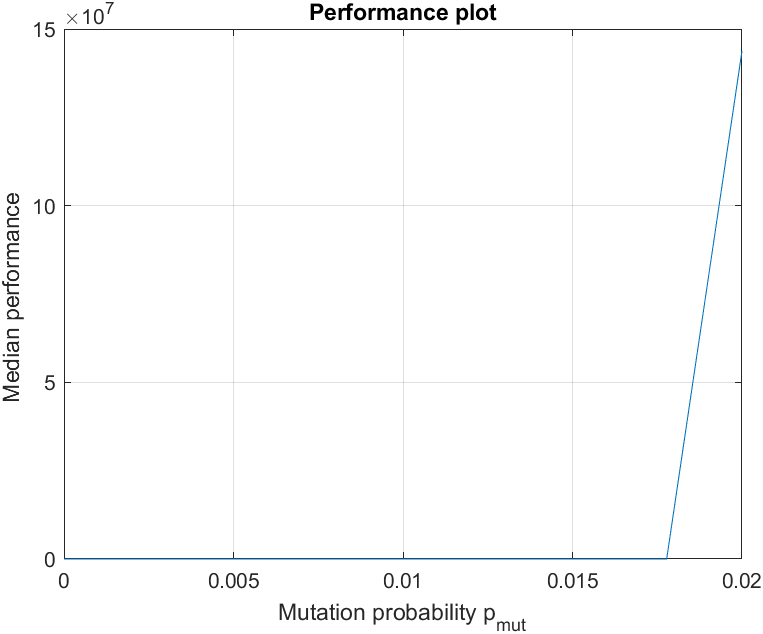
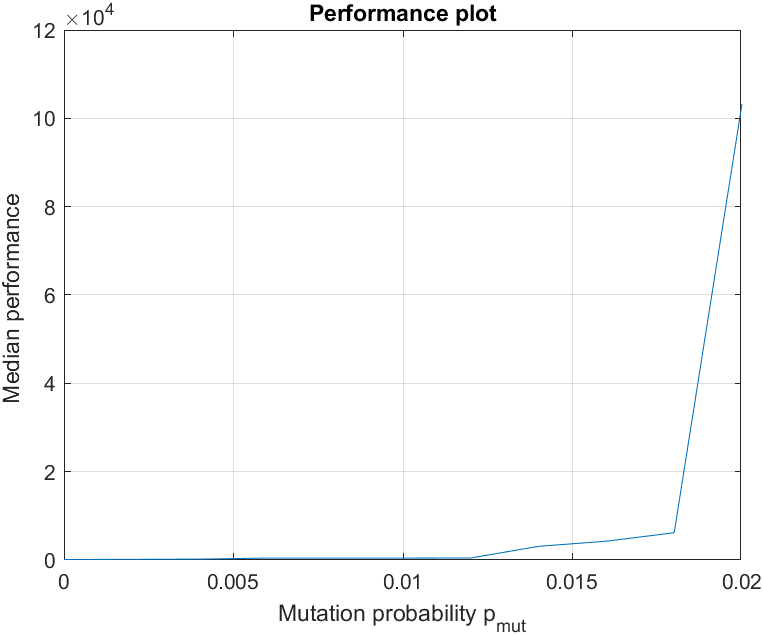
Finish

diff --git a/HomeProblemsSet1/1.3/TournamentSelect.m b/HomeProblemsSet1/1.3/TournamentSelect.m
@@ -1,46 +1,105 @@
+% clc,clear
+% fit = [1 1 1 1];
+% index = TournamentSelect(fit,0.9,2);
+% fit(index);
+function selectedIndividualIndex = TournamentSelect(fitnessList, tournamentProbability, tournamentSize)
+
+tmpIndex = 1 + fix(rand(1,3)*length(fitnessList));
+%tmpIndex = randi(length(fitnessList),1,tournamentSize)
+
+tmpFitnessList = fitnessList(tmpIndex);
+
+
+[minimumFitness,minIndex] = min(tmpFitnessList);
+selectedIndividualIndex = tmpIndex(minIndex);
+for i = 1:tournamentSize-1
+    [maximumFitness,maxIndex] = max(tmpFitnessList);
+    r = rand;
+    if r<tournamentProbability
+        selectedIndividualIndex = tmpIndex(maxIndex);
+        break
+    else
+        tmpIndex(maxIndex) = [];
+        tmpFitnessList(maxIndex) = [];
+    end
+end
+
+end
 % function selectedIndividualIndex = TournamentSelect(fitnessList, tournamentProbability, tournamentSize)
-% 
+%
 % tmpFitnessList = fitnessList(randi(length(fitnessList),1,tournamentSize));
-% tmpFitnessList = sort(tmpFitnessList,'descend');
+% tmpFitnessList = sort(tmpFitnessList,'descend')
 % selectedIndividual = tmpFitnessList(end);
-% 
+%
 % for i = 1:length(tmpFitnessList)-1
 %     r = rand;
 %     if r<tournamentProbability
-%         selectedIndividual = tmpFitnessList(i);
+%         selectedIndividual = tmpFitnessList(i)
 %         break
 %     end
 % end
-% 
+%
 % selectedIndividualIndex = find(fitnessList == selectedIndividual);
 % if length(selectedIndividualIndex) > 1
 %    selectedIndividualIndex = selectedIndividualIndex(randi([1,length(selectedIndividualIndex)]));
 % end
-% 
+%
 % end
 
-function selectedIndividualIndex = TournamentSelect(fitnessList, tournamentProbability, tournamentSize)
-
-fitness = fitnessList;
-pTournament = tournamentProbability;
-populationSize = length(fitness);
-iTmp1 = 1 + fix(rand*populationSize);
-iTmp2 = 1 + fix(rand*populationSize);
-
-r = rand;
-
-if (r < pTournament)
-    if (fitness(iTmp1) > fitness(iTmp2))
-        selectedIndividualIndex = iTmp1;
-    else
-        selectedIndividualIndex = iTmp2;
-    end
-else
-    if (fitness(iTmp1) > fitness(iTmp2))
-        selectedIndividualIndex = iTmp2;
-    else
-        selectedIndividualIndex = iTmp1;
-    end
-end
-
-end
+% function selectedIndividualIndex = TournamentSelect(fitnessList, tournamentProbability, tournamentSize)
+%
+% fitness = fitnessList;
+% pTournament = tournamentProbability;
+% populationSize = length(fitness);
+% iTmp1 = 1 + fix(rand*populationSize);
+% iTmp2 = 1 + fix(rand*populationSize);
+%
+% r = rand;
+%
+% if (r < pTournament)
+%     if (fitness(iTmp1) > fitness(iTmp2))
+%         selectedIndividualIndex = iTmp1;
+%     else
+%         selectedIndividualIndex = iTmp2;
+%     end
+% else
+%     if (fitness(iTmp1) > fitness(iTmp2))
+%         selectedIndividualIndex = iTmp2;
+%     else
+%         selectedIndividualIndex = iTmp1;
+%     end
+% end
+%
+% end
+% fit = [1 1 1 1]
+% index = TournamentSelect(fit,0.9,2)
+% fit(index)
+% function selectedIndividualIndex = TournamentSelect(fitnessList, tournamentProbability, tournamentSize);
+% 
+%     populationSize = length(fitnessList);
+%     tournamentFitnessList = zeros(tournamentSize,1);
+% 
+%     for j=1:tournamentSize
+%         randIndex(j) = 1 + fix(rand*populationSize);
+%         tournamentFitnessList(j) = fitnessList(randIndex(j));
+%     end
+%     for i=1:tournamentSize
+% 
+%         r=rand;
+%         [~, index] = max(tournamentFitnessList)
+% 
+%         if r < tournamentProbability
+%             selectedIndividualIndex = randIndex(index(1));
+%             break;
+% 
+%         elseif length(tournamentFitnessList)==1
+%             selectedIndividualIndex = randIndex(index(1));
+%             break;
+%         else
+%             tournamentFitnessList(index(1))=[];
+% 
+%         end
+% 
+%     end
+% 
+% end

diff --git a/HomeProblemsSet1/1.3/RunBatch.m b/HomeProblemsSet1/1.3/RunBatch.m
@@ -19,7 +19,7 @@ crossoverProbability = 0.8;        % Do NOT change
 
 % Define more runs here (pMut < 0.02) ...
 
-mutationProbability = linspace(0,0.02,10)
+mutationProbability = linspace(0,0.02,11)
 h = waitbar(0,"init")
 maximumFitnessList002 = zeros(numberOfRuns,length(mutationProbability))
 for iteration = 1:length(mutationProbability)
@@ -31,8 +31,9 @@ for iteration = 1:length(mutationProbability)
         sprintf('Run: %d, Score: %0.10f', i, maximumFitness)
         maximumFitnessList002(i,iteration) = maximumFitness;
     end
+    waitbar(iteration/length(mutationProbability),h,"loading")
 end
-waitbar(iteration/length(mutationProbability),h,"loading")
+
 %%
 average002 = mean(maximumFitnessList002);
 median002 = median(maximumFitnessList002);
@@ -48,6 +49,6 @@ title("Performance plot")
 grid on
 mutationProbability
 t = table(mutationProbability,median002,'VariableNames',["Mutation probability" "Median"])
-sprintf('PMut = 0.02: %0.3f & %0.3f & %0.3f & %0.3f & %0.3f & %0.3f & %0.3f & %0.3f & %0.3f & %0.3f & STD: %0.10f',mutationProbability)
-sprintf('PMut = 0.02: %0.3f & %0.3f & %0.3f & %0.3f & %0.3f & %0.3f & %0.3f & %0.3f & %0.3f & %0.3f & STD: %0.10f',median002)
+sprintf('PMut = 0.02: %0.3f & %0.3f & %0.3f & %0.3f & %0.3f & %0.3f & %0.3f & %0.3f & %0.3f & %0.3f & %0.3f STD: %0.10f',mutationProbability)
+sprintf('PMut = 0.02: %0.3f & %0.3f & %0.3f & %0.3f & %0.3f & %0.3f & %0.3f & %0.3f & %0.3f & %0.3f & %0.3f & STD: %0.10f',median002)
 % ... and here (pMut > 0.02)

diff --git a/HomeProblemsSet1/1.3/Cross.m b/HomeProblemsSet1/1.3/Cross.m
@@ -1,17 +1,34 @@
 function newIndividuals = Cross(individual1, individual2)
+     
+     nGenes = size(individual1,2);
+     crossoverPoint = 1 + fix(rand*(nGenes-1));
 
-nGenes = size(individual1,2);
-crossoverPoint = 1 + fix(rand*(nGenes-1));
-
-newIndividuals = zeros(2,nGenes);
-for j = 1:nGenes
-    if (j <= crossoverPoint)
-        newIndividuals(1,j) = individual1(j);
-        newIndividuals(2,j) = individual2(j);
-    else
-        newIndividuals(1,j) = individual2(j);
-        newIndividuals(2,j) = individual1(j);
+     newIndividuals = zeros(2,nGenes);
+     for j = 1:nGenes
+         if j <= crossoverPoint
+             newIndividuals(1,j) = individual1(j);
+             newIndividuals(2,j) = individual2(j);
+         else
+             newIndividuals(1,j) = individual2(j);
+             newIndividuals(2,j) = individual1(j);
+        end
     end
-end
 
 end
+% function newIndividuals = Cross(individual1, individual2)
+%      
+%      nGenes = size(individual1,2);
+%      crossoverPoint = 1 + fix(rand*(nGenes-1));
+% 
+%      newIndividuals = zeros(2,nGenes);
+%      for j = 1:nGenes
+%          if j <= crossoverPoint
+%              newIndividuals(1,j) = individual1(j);
+%              newIndividuals(2,j) = individual2(j);
+%          else
+%              newIndividuals(1,j) = individual2(j);
+%              newIndividuals(2,j) = individual1(j);
+%         end
+%     end
+% 
+% end

diff --git a/HomeProblemsSet1/1.3/Mutate.m b/HomeProblemsSet1/1.3/Mutate.m
@@ -1,13 +1,22 @@
+% function mutatedIndividual = Mutate(individual, mutationProbability)
+% numberOfGenes = length(individual);
+% mutatedIndividual = individual;
+% for i = 1:numberOfGenes
+%     r = rand;
+%     if (r<mutationProbability)
+%         mutatedIndividual(i) = 1-individual(i);
+%     end
+% end
+% end
 function mutatedIndividual = Mutate(individual, mutationProbability)
-numberOfGenes = length(individual);
-
-for i = 1:length(individual)
-    r = rand(1);
-    if (r<mutationProbability)
-        mutatedIndividual(i) = 1-individual(i);
-    else
-        mutatedIndividual(i) = individual(i);
-    end
-end
+   mutatedIndividual = individual;
+   nGenes = size(individual,2);
+ 
+  for j = 1:nGenes
+       r = rand;
+       if r < mutationProbability
+           mutatedIndividual(j) = 1-individual(j);
+       end
+  end
 
 end

diff --git a/HomeProblemsSet1/1.3/EvaluateIndividual.m b/HomeProblemsSet1/1.3/EvaluateIndividual.m
@@ -1,8 +1,19 @@
 % First compute the function value, then compute the fitness
 % value; see also the problem formulation.
-function fitness = EvaluateIndividual(x)
-f = @(x1,x2) (1.5-x1+x1*x2)^2+(2.25-x1+x1*x2^2)^2+(2.625-x1+x1*x2^3)^2;
+% function fitness = EvaluateIndividual(x)
+% f = @(x1,x2) (1.5-x1+x1*x2)^2+(2.25-x1+x1*x2^2)^2+(2.625-x1+x1*x2^3)^2;
+% 
+% 
+% fitness = 1/f(x(1),x(2));
+% end
+% % First compute the function value, then compute the fitness
+% % value; see also the problem formulation.
 
+function fitness = EvaluateIndividual(x);
+    gTerm1 = (1.5-x(1)+x(1)*x(2))^2;
+    gTerm2 = (2.25-x(1)+x(1)*x(2)^2)^2;
+    gTerm3 = (2.625-x(1)+x(1)*x(2)^3)^2;
+    g = gTerm1+gTerm2+gTerm3;
+    fitness = 1/(g);
+    
 
-fitness = 1/f(x(1),x(2));
-end

diff --git a/HomeProblemsSet1/1.3/DecodeChromosome.m b/HomeProblemsSet1/1.3/DecodeChromosome.m
@@ -16,3 +16,24 @@ for j = 1:numberOfDecodedChromosomes
 end
 
 end
+% Note: Each component of x should take values in [-a,a], where a = maximumVariableValue.
+% function x = DecodeChromosome(chromosome,numberOfVariables,maximumVariableValue);
+% 
+%     m = length(chromosome);
+%     n = numberOfVariables;
+%     k = m/n;
+%     
+%     x = zeros(1,numberOfVariables);
+%     for j=1:numberOfVariables
+%         for i=1:k
+%             x(j) = x(j)+(2^(-i)*chromosome(i+(j-1)*k));
+%         end
+%         
+%     end
+%     
+%      x=x*(2*maximumVariableValue/(1-2^(-k)));
+%      x = x - maximumVariableValue;
+%      
+%     
+% end
+

diff --git a/HomeProblemsSet1/1.3/InitializePopulation.m b/HomeProblemsSet1/1.3/InitializePopulation.m
@@ -14,3 +14,19 @@ for i = 1:populationSize
 end
 
 end
+% function population = InitializePopulation(populationSize,numberOfGenes);
+%     population = zeros(populationSize, numberOfGenes);
+%     for i = 1:populationSize
+%         for j = 1:numberOfGenes
+%             s = rand;
+%             if (s < 0.5)
+%                 population(i,j)=0;
+%             else
+%                 population(i,j)=1;
+%             end
+%         end
+%     end
+%     
+% end
+
+
